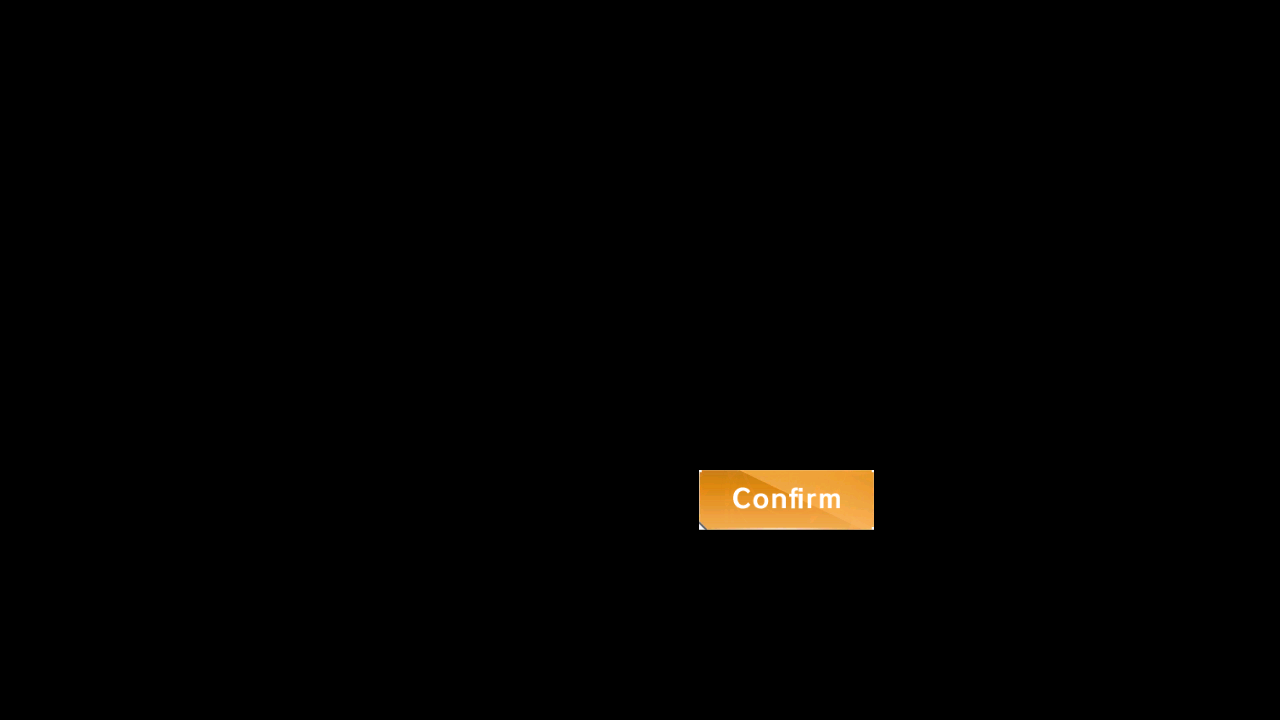
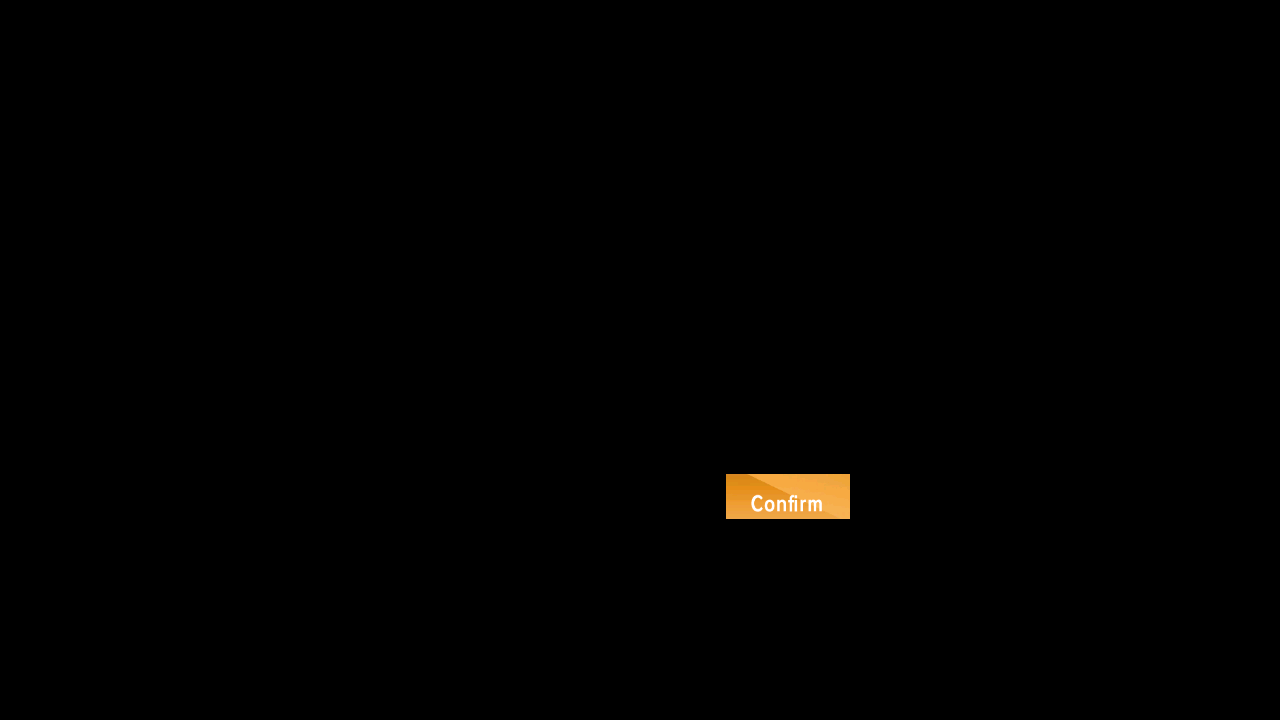
Upd: [EN] LOGIN_GAME_UPDATE, BATTLE_STATUS; text size/thickness changed Fix: [EN] restore commit 99d14902; skill exp detection read incorrectly

Changed region(s): [[0.5312, 0.6417, 0.6875, 0.7333]]

diff --git a/module/handler/assets.py b/module/handler/assets.py
@@ -43,7 +43,7 @@ IN_MAP = Button(area={'cn': (749, 654, 921, 707), 'en': (757, 654, 917, 699), 'j
 IN_STAGE = Button(area={'cn': (122, 16, 172, 39), 'en': (120, 18, 208, 40), 'jp': (121, 15, 174, 40), 'tw': (122, 16, 172, 39)}, color={'cn': (149, 167, 207), 'en': (104, 118, 157), 'jp': (151, 167, 205), 'tw': (149, 167, 207)}, button={'cn': (122, 16, 172, 39), 'en': (120, 18, 208, 40), 'jp': (121, 15, 174, 40), 'tw': (122, 16, 172, 39)}, file={'cn': './assets/cn/handler/IN_STAGE.png', 'en': './assets/en/handler/IN_STAGE.png', 'jp': './assets/jp/handler/IN_STAGE.png', 'tw': './assets/tw/handler/IN_STAGE.png'})
 LOGIN_ANNOUNCE = Button(area={'cn': (1160, 45, 1227, 90), 'en': (1159, 44, 1228, 91), 'jp': (1160, 46, 1224, 86), 'tw': (1160, 45, 1227, 90)}, color={'cn': (174, 61, 56), 'en': (193, 79, 73), 'jp': (191, 79, 74), 'tw': (174, 61, 56)}, button={'cn': (1160, 45, 1227, 90), 'en': (1159, 44, 1228, 91), 'jp': (1160, 46, 1224, 86), 'tw': (1160, 45, 1227, 90)}, file={'cn': './assets/cn/handler/LOGIN_ANNOUNCE.png', 'en': './assets/en/handler/LOGIN_ANNOUNCE.png', 'jp': './assets/jp/handler/LOGIN_ANNOUNCE.png', 'tw': './assets/tw/handler/LOGIN_ANNOUNCE.png'})
 LOGIN_CHECK = Button(area={'cn': (1214, 653, 1268, 709), 'en': (1214, 653, 1268, 709), 'jp': (1214, 653, 1268, 709), 'tw': (1214, 653, 1268, 709)}, color={'cn': (203, 215, 230), 'en': (203, 215, 230), 'jp': (203, 215, 230), 'tw': (203, 215, 230)}, button={'cn': (416, 294, 534, 400), 'en': (1078, 591, 1168, 635), 'jp': (416, 294, 534, 400), 'tw': (416, 294, 534, 400)}, file={'cn': './assets/cn/handler/LOGIN_CHECK.png', 'en': './assets/en/handler/LOGIN_CHECK.png', 'jp': './assets/jp/handler/LOGIN_CHECK.png', 'tw': './assets/tw/handler/LOGIN_CHECK.png'})
-LOGIN_GAME_UPDATE = Button(area={'cn': (700, 471, 873, 529), 'en': (699, 470, 874, 530), 'jp': (704, 475, 867, 525), 'tw': (706, 477, 866, 528)}, color={'cn': (238, 170, 78), 'en': (236, 167, 74), 'jp': (234, 167, 77), 'tw': (235, 169, 80)}, button={'cn': (700, 471, 873, 529), 'en': (699, 470, 874, 530), 'jp': (704, 475, 867, 525), 'tw': (706, 477, 866, 528)}, file={'cn': './assets/cn/handler/LOGIN_GAME_UPDATE.png', 'en': './assets/en/handler/LOGIN_GAME_UPDATE.png', 'jp': './assets/jp/handler/LOGIN_GAME_UPDATE.png', 'tw': './assets/tw/handler/LOGIN_GAME_UPDATE.png'})
+LOGIN_GAME_UPDATE = Button(area={'cn': (700, 471, 873, 529), 'en': (726, 474, 850, 519), 'jp': (704, 475, 867, 525), 'tw': (706, 477, 866, 528)}, color={'cn': (238, 170, 78), 'en': (241, 169, 73), 'jp': (234, 167, 77), 'tw': (235, 169, 80)}, button={'cn': (700, 471, 873, 529), 'en': (726, 474, 850, 519), 'jp': (704, 475, 867, 525), 'tw': (706, 477, 866, 528)}, file={'cn': './assets/cn/handler/LOGIN_GAME_UPDATE.png', 'en': './assets/en/handler/LOGIN_GAME_UPDATE.png', 'jp': './assets/jp/handler/LOGIN_GAME_UPDATE.png', 'tw': './assets/tw/handler/LOGIN_GAME_UPDATE.png'})
 LOGIN_RETURN_INFO = Button(area={'cn': (960, 123, 1158, 333), 'en': (960, 123, 1158, 333), 'jp': (960, 123, 1158, 333), 'tw': (960, 123, 1158, 333)}, color={'cn': (170, 185, 166), 'en': (170, 185, 166), 'jp': (170, 185, 166), 'tw': (170, 185, 166)}, button={'cn': (960, 123, 1158, 333), 'en': (960, 123, 1158, 333), 'jp': (960, 123, 1158, 333), 'tw': (960, 123, 1158, 333)}, file={'cn': './assets/cn/handler/LOGIN_RETURN_INFO.png', 'en': './assets/en/handler/LOGIN_RETURN_INFO.png', 'jp': './assets/jp/handler/LOGIN_RETURN_INFO.png', 'tw': './assets/tw/handler/LOGIN_RETURN_INFO.png'})
 LOGIN_RETURN_SIGN = Button(area={'cn': (1, 7, 104, 47), 'en': (1, 7, 118, 39), 'jp': (1, 7, 104, 47), 'tw': (1, 7, 104, 47)}, color={'cn': (158, 214, 229), 'en': (176, 223, 236), 'jp': (158, 214, 229), 'tw': (158, 214, 229)}, button={'cn': (1, 7, 104, 47), 'en': (1, 7, 118, 39), 'jp': (1, 7, 104, 47), 'tw': (1, 7, 104, 47)}, file={'cn': './assets/cn/handler/LOGIN_RETURN_SIGN.png', 'en': './assets/en/handler/LOGIN_RETURN_SIGN.png', 'jp': './assets/jp/handler/LOGIN_RETURN_SIGN.png', 'tw': './assets/tw/handler/LOGIN_RETURN_SIGN.png'})
 MAINTENANCE_ANNOUNCE = Button(area={'cn': (923, 141, 990, 186), 'en': (923, 141, 990, 186), 'jp': (923, 141, 990, 186), 'tw': (923, 141, 990, 186)}, color={'cn': (207, 95, 91), 'en': (207, 95, 91), 'jp': (207, 95, 91), 'tw': (207, 95, 91)}, button={'cn': (923, 141, 990, 186), 'en': (923, 141, 990, 186), 'jp': (923, 141, 990, 186), 'tw': (923, 141, 990, 186)}, file={'cn': './assets/cn/handler/MAINTENANCE_ANNOUNCE.png', 'en': './assets/en/handler/MAINTENANCE_ANNOUNCE.png', 'jp': './assets/jp/handler/MAINTENANCE_ANNOUNCE.png', 'tw': './assets/tw/handler/MAINTENANCE_ANNOUNCE.png'})

diff --git a/module/os_ash/assets.py b/module/os_ash/assets.py
@@ -10,7 +10,7 @@ ASH_ENTER_CONFIRM = Button(area={'cn': (554, 482, 726, 539), 'en': (560, 487, 72
 ASH_ENTRANCE = Button(area={'cn': (935, 671, 1002, 689), 'en': (938, 676, 995, 690), 'jp': (934, 658, 1026, 689), 'tw': (934, 670, 1000, 689)}, color={'cn': (53, 57, 58), 'en': (73, 74, 75), 'jp': (50, 58, 62), 'tw': (60, 63, 65)}, button={'cn': (932, 631, 1078, 692), 'en': (932, 631, 1078, 692), 'jp': (934, 629, 1079, 693), 'tw': (930, 629, 1080, 693)}, file={'cn': './assets/cn/os_ash/ASH_ENTRANCE.png', 'en': './assets/en/os_ash/ASH_ENTRANCE.png', 'jp': './assets/jp/os_ash/ASH_ENTRANCE.png', 'tw': './assets/tw/os_ash/ASH_ENTRANCE.png'})
 ASH_QUIT = Button(area={'cn': (29, 25, 59, 49), 'en': (29, 25, 59, 49), 'jp': (22, 25, 54, 48), 'tw': (29, 25, 59, 49)}, color={'cn': (115, 63, 68), 'en': (115, 63, 68), 'jp': (114, 61, 67), 'tw': (115, 63, 68)}, button={'cn': (29, 25, 59, 49), 'en': (29, 25, 59, 49), 'jp': (22, 25, 54, 48), 'tw': (29, 25, 59, 49)}, file={'cn': './assets/cn/os_ash/ASH_QUIT.png', 'en': './assets/en/os_ash/ASH_QUIT.png', 'jp': './assets/jp/os_ash/ASH_QUIT.png', 'tw': './assets/tw/os_ash/ASH_QUIT.png'})
 ASH_START = Button(area={'cn': (1061, 635, 1259, 695), 'en': (1063, 637, 1255, 693), 'jp': (1058, 634, 1260, 697), 'tw': (1043, 637, 1242, 698)}, color={'cn': (236, 187, 115), 'en': (223, 184, 124), 'jp': (222, 185, 126), 'tw': (223, 186, 131)}, button={'cn': (1061, 635, 1259, 695), 'en': (1063, 637, 1255, 693), 'jp': (1058, 634, 1260, 697), 'tw': (1043, 637, 1242, 698)}, file={'cn': './assets/cn/os_ash/ASH_START.png', 'en': './assets/en/os_ash/ASH_START.png', 'jp': './assets/jp/os_ash/ASH_START.png', 'tw': './assets/tw/os_ash/ASH_START.png'})
-BATTLE_STATUS = Button(area={'cn': (1051, 644, 1123, 675), 'en': (1026, 646, 1146, 671), 'jp': (1047, 642, 1127, 679), 'tw': (1050, 644, 1123, 675)}, color={'cn': (247, 199, 137), 'en': (237, 190, 128), 'jp': (228, 172, 96), 'tw': (243, 193, 128)}, button={'cn': (1051, 644, 1123, 675), 'en': (1026, 646, 1146, 671), 'jp': (1047, 642, 1127, 679), 'tw': (1050, 644, 1123, 675)}, file={'cn': './assets/cn/os_ash/BATTLE_STATUS.png', 'en': './assets/en/os_ash/BATTLE_STATUS.png', 'jp': './assets/jp/os_ash/BATTLE_STATUS.png', 'tw': './assets/tw/os_ash/BATTLE_STATUS.png'})
+BATTLE_STATUS = Button(area={'cn': (1051, 644, 1123, 675), 'en': (1022, 657, 1150, 671), 'jp': (1047, 642, 1127, 679), 'tw': (1050, 644, 1123, 675)}, color={'cn': (247, 199, 137), 'en': (243, 207, 160), 'jp': (228, 172, 96), 'tw': (243, 193, 128)}, button={'cn': (1051, 644, 1123, 675), 'en': (1022, 657, 1150, 671), 'jp': (1047, 642, 1127, 679), 'tw': (1050, 644, 1123, 675)}, file={'cn': './assets/cn/os_ash/BATTLE_STATUS.png', 'en': './assets/en/os_ash/BATTLE_STATUS.png', 'jp': './assets/jp/os_ash/BATTLE_STATUS.png', 'tw': './assets/tw/os_ash/BATTLE_STATUS.png'})
 BEACON_EMPTY = Button(area={'cn': (536, 288, 771, 316), 'en': (522, 290, 775, 313), 'jp': (443, 288, 739, 316), 'tw': (536, 288, 772, 316)}, color={'cn': (136, 137, 142), 'en': (148, 150, 154), 'jp': (132, 135, 140), 'tw': (134, 135, 138)}, button={'cn': (536, 288, 771, 316), 'en': (522, 290, 775, 313), 'jp': (443, 288, 739, 316), 'tw': (536, 288, 772, 316)}, file={'cn': './assets/cn/os_ash/BEACON_EMPTY.png', 'en': './assets/en/os_ash/BEACON_EMPTY.png', 'jp': './assets/jp/os_ash/BEACON_EMPTY.png', 'tw': './assets/tw/os_ash/BEACON_EMPTY.png'})
 BEACON_ENTER = Button(area={'cn': (553, 308, 669, 332), 'en': (545, 310, 676, 331), 'jp': (553, 309, 669, 331), 'tw': (553, 309, 669, 331)}, color={'cn': (90, 92, 92), 'en': (79, 81, 80), 'jp': (102, 101, 101), 'tw': (102, 98, 97)}, button={'cn': (509, 78, 713, 470), 'en': (509, 78, 713, 470), 'jp': (514, 84, 710, 465), 'tw': (509, 78, 714, 470)}, file={'cn': './assets/cn/os_ash/BEACON_ENTER.png', 'en': './assets/en/os_ash/BEACON_ENTER.png', 'jp': './assets/jp/os_ash/BEACON_ENTER.png', 'tw': './assets/tw/os_ash/BEACON_ENTER.png'})
 BEACON_HP_PERCENTAGE = Button(area={'cn': (278, 609, 1239, 623), 'en': (278, 609, 1239, 623), 'jp': (278, 609, 1239, 623), 'tw': (278, 609, 1239, 623)}, color={'cn': (224, 31, 22), 'en': (224, 31, 22), 'jp': (224, 31, 22), 'tw': (224, 31, 22)}, button={'cn': (278, 609, 1239, 623), 'en': (278, 609, 1239, 623), 'jp': (278, 609, 1239, 623), 'tw': (278, 609, 1239, 623)}, file={'cn': './assets/cn/os_ash/BEACON_HP_PERCENTAGE.png', 'en': './assets/en/os_ash/BEACON_HP_PERCENTAGE.png', 'jp': './assets/jp/os_ash/BEACON_HP_PERCENTAGE.png', 'tw': './assets/tw/os_ash/BEACON_HP_PERCENTAGE.png'})

diff --git a/module/tactical/assets.py b/module/tactical/assets.py
@@ -4,7 +4,7 @@ from module.base.template import Template
 # This file was automatically generated by dev_tools/button_extract.py.
 # Don't modify it manually.
 
-OCR_SKILL_EXP = Button(area={'cn': (821, 191, 951, 209), 'en': (859, 189, 950, 207), 'jp': (821, 191, 951, 209), 'tw': (821, 191, 951, 209)}, color={'cn': (76, 85, 83), 'en': (77, 90, 79), 'jp': (76, 85, 83), 'tw': (76, 85, 83)}, button={'cn': (821, 191, 951, 209), 'en': (859, 189, 950, 207), 'jp': (821, 191, 951, 209), 'tw': (821, 191, 951, 209)}, file={'cn': './assets/cn/tactical/OCR_SKILL_EXP.png', 'en': './assets/en/tactical/OCR_SKILL_EXP.png', 'jp': './assets/jp/tactical/OCR_SKILL_EXP.png', 'tw': './assets/tw/tactical/OCR_SKILL_EXP.png'})
+OCR_SKILL_EXP = Button(area={'cn': (821, 191, 951, 209), 'en': (821, 191, 951, 209), 'jp': (821, 191, 951, 209), 'tw': (821, 191, 951, 209)}, color={'cn': (76, 85, 83), 'en': (76, 85, 83), 'jp': (76, 85, 83), 'tw': (76, 85, 83)}, button={'cn': (821, 191, 951, 209), 'en': (821, 191, 951, 209), 'jp': (821, 191, 951, 209), 'tw': (821, 191, 951, 209)}, file={'cn': './assets/cn/tactical/OCR_SKILL_EXP.png', 'en': './assets/en/tactical/OCR_SKILL_EXP.png', 'jp': './assets/jp/tactical/OCR_SKILL_EXP.png', 'tw': './assets/tw/tactical/OCR_SKILL_EXP.png'})
 REWARD_2 = Button(area={'cn': (383, 404, 503, 444), 'en': (382, 403, 504, 445), 'jp': (383, 404, 503, 444), 'tw': (383, 404, 503, 444)}, color={'cn': (233, 165, 67), 'en': (236, 177, 92), 'jp': (228, 161, 61), 'tw': (233, 165, 67)}, button={'cn': (383, 404, 503, 444), 'en': (382, 403, 504, 445), 'jp': (383, 404, 503, 444), 'tw': (383, 404, 503, 444)}, file={'cn': './assets/cn/tactical/REWARD_2.png', 'en': './assets/en/tactical/REWARD_2.png', 'jp': './assets/jp/tactical/REWARD_2.png', 'tw': './assets/tw/tactical/REWARD_2.png'})
 TACTICAL_CLASS_CANCEL = Button(area={'cn': (818, 591, 990, 647), 'en': (836, 591, 973, 639), 'jp': (817, 590, 991, 648), 'tw': (816, 589, 992, 649)}, color={'cn': (153, 154, 154), 'en': (163, 164, 164), 'jp': (157, 157, 158), 'tw': (154, 154, 156)}, button={'cn': (818, 591, 990, 647), 'en': (836, 591, 973, 639), 'jp': (817, 590, 991, 648), 'tw': (816, 589, 992, 649)}, file={'cn': './assets/cn/tactical/TACTICAL_CLASS_CANCEL.png', 'en': './assets/en/tactical/TACTICAL_CLASS_CANCEL.png', 'jp': './assets/jp/tactical/TACTICAL_CLASS_CANCEL.png', 'tw': './assets/tw/tactical/TACTICAL_CLASS_CANCEL.png'})
 TACTICAL_CLASS_START = Button(area={'cn': (1024, 590, 1197, 648), 'en': (1045, 592, 1176, 640), 'jp': (1024, 590, 1197, 647), 'tw': (1023, 589, 1199, 649)}, color={'cn': (96, 139, 194), 'en': (95, 137, 190), 'jp': (92, 136, 190), 'tw': (102, 143, 196)}, button={'cn': (1024, 590, 1197, 648), 'en': (1045, 592, 1176, 640), 'jp': (1024, 590, 1197, 647), 'tw': (1023, 589, 1199, 649)}, file={'cn': './assets/cn/tactical/TACTICAL_CLASS_START.png', 'en': './assets/en/tactical/TACTICAL_CLASS_START.png', 'jp': './assets/jp/tactical/TACTICAL_CLASS_START.png', 'tw': './assets/tw/tactical/TACTICAL_CLASS_START.png'})
